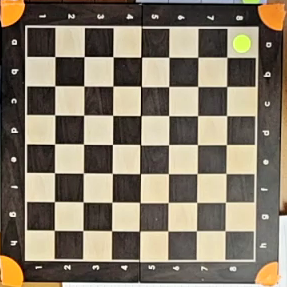
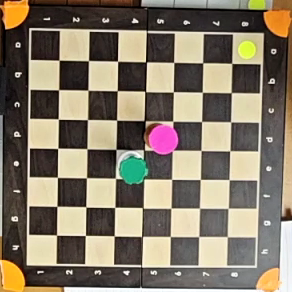
same commit again

Changed region(s): [[0.0, 0.0, 1.0, 1.0]]

diff --git a/testbed/process_board.m b/testbed/process_board.m
@@ -10,12 +10,12 @@ img = imrotate(raw_img,90);
 grey_img = rgb2gray(img);
 % gaussian blurring filter
 %kirsty images =  20
-gauss_img = imgaussfilt(grey_img,2);
+gauss_img = imgaussfilt(grey_img,1);
 % canny edge detection
 canny_img = edge(gauss_img,'Canny');
 %dialate edges
 %kirsty images = 15
-se = strel('square', 5);
+se = strel('square', 6);
 dialated_edges = imdilate(canny_img, se);
 %imshow(dialated_edges);
 % fill holes

diff --git a/testbed/camera.m b/testbed/camera.m
@@ -44,3 +44,5 @@ img = path;
 % Save snapshot, which is a
 imwrite(imgRGB, path);
 fprintf('Saved snapshot #%d -> %s\n', idx, fname);
+
+run("centering.m");

diff --git a/testbed/centering.m b/testbed/centering.m
@@ -93,3 +93,4 @@ for i = 1:numel(all_keys)
 end
 
 save("D:\Chester-master\Chester\testbed\board_adjusted.mat", 'board_dictionary');
+run("process_pieces");
